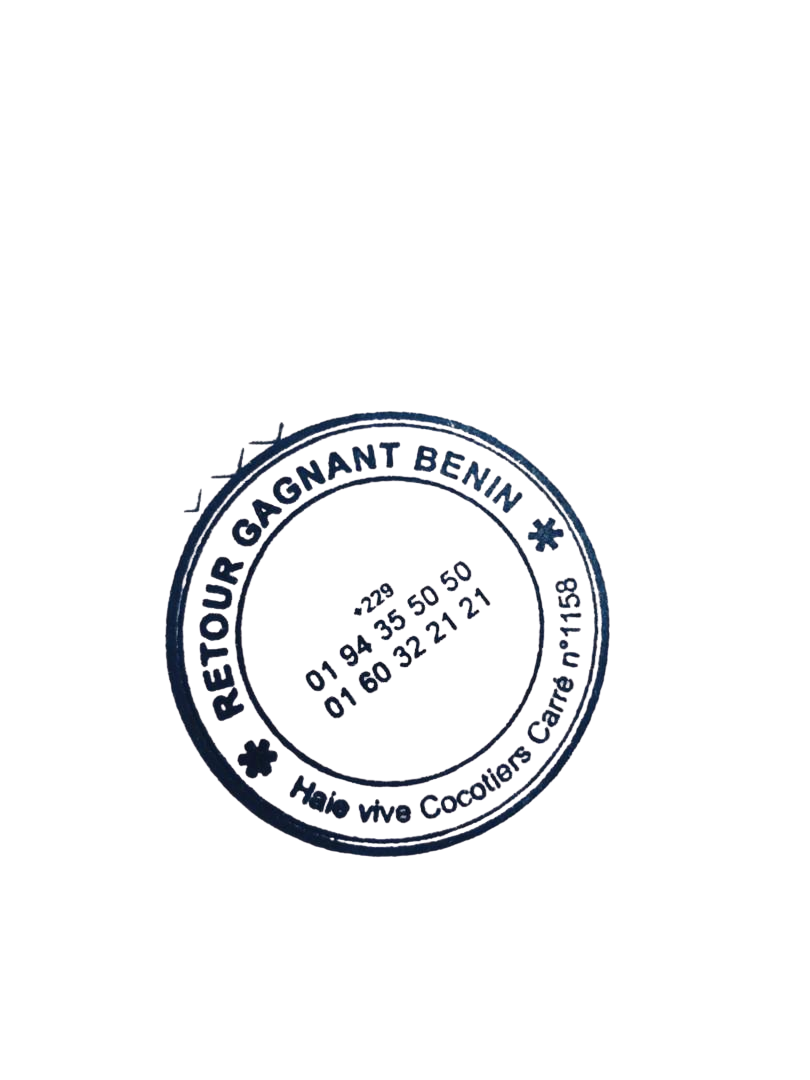
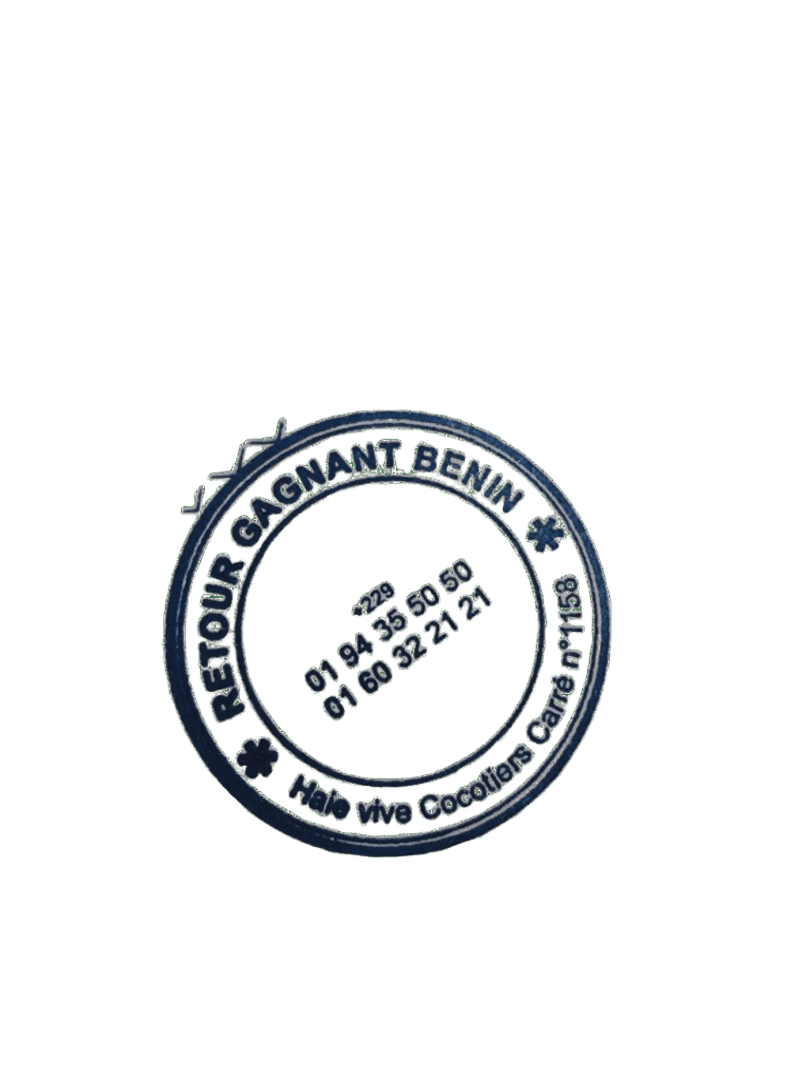
fix(grille-tarifaire): cachet 200px avec mix-blend-mode multiply - fond blanc invisible comme vrai tampon

Changed region(s): [[0.1852, 0.3667, 0.7716, 0.7944], [0.3704, 0.5194, 0.6173, 0.6722]]

diff --git a/frontend/app/api/grille-tarifaire/print/route.ts b/frontend/app/api/grille-tarifaire/print/route.ts
@@ -342,24 +342,22 @@ export async function GET(request: NextRequest) {
       padding:16px 0 0;
     }
 
-    /* Cadre vert — dimensions facture, flex: texte à gauche, cachet à droite */
+    /* Cadre vert — dimensions facture */
     .sig-box{
-      display:flex;
-      align-items:center;
-      gap:10px;
       border:1px solid #008751;
       border-radius:8px;
       padding:14px;
       background:#f0fff6 !important;
       min-height:90px;
+      position:relative;
       width:370px;
       -webkit-print-color-adjust:exact !important;
       print-color-adjust:exact !important;
     }
 
     .sig-text{
-      flex:1;
-      min-width:0;
+      position:relative;
+      z-index:1;
     }
     .sig-title{font-size:9px;font-weight:800;text-transform:uppercase;letter-spacing:2px;color:#006b40;margin-bottom:4px}
     .sig-company{font-size:8px;font-weight:700;color:#008751;margin-bottom:8px}
@@ -369,13 +367,17 @@ export async function GET(request: NextRequest) {
     .sig-date{font-size:9px;color:#888;margin-top:4px}
     .sig-valid{font-size:7.5px;font-weight:800;text-transform:uppercase;color:#008751;letter-spacing:0.5px;margin-top:4px}
 
-    /* Cachet — taille = hauteur du texte (~110px), à droite, dans le cadre */
+    /* Cachet 200px — mix-blend-mode:multiply rend le blanc invisible, comme un vrai tampon */
     .cachet{
-      width:110px;
-      height:110px;
-      flex-shrink:0;
+      position:absolute;
+      right:5px;
+      top:50%;
+      transform:translateY(-50%);
+      width:200px;
+      height:200px;
       object-fit:contain;
-      opacity:.9;
+      mix-blend-mode:multiply;
+      opacity:.95;
     }
 
     /* ===== PIED DE PAGE ===== */
